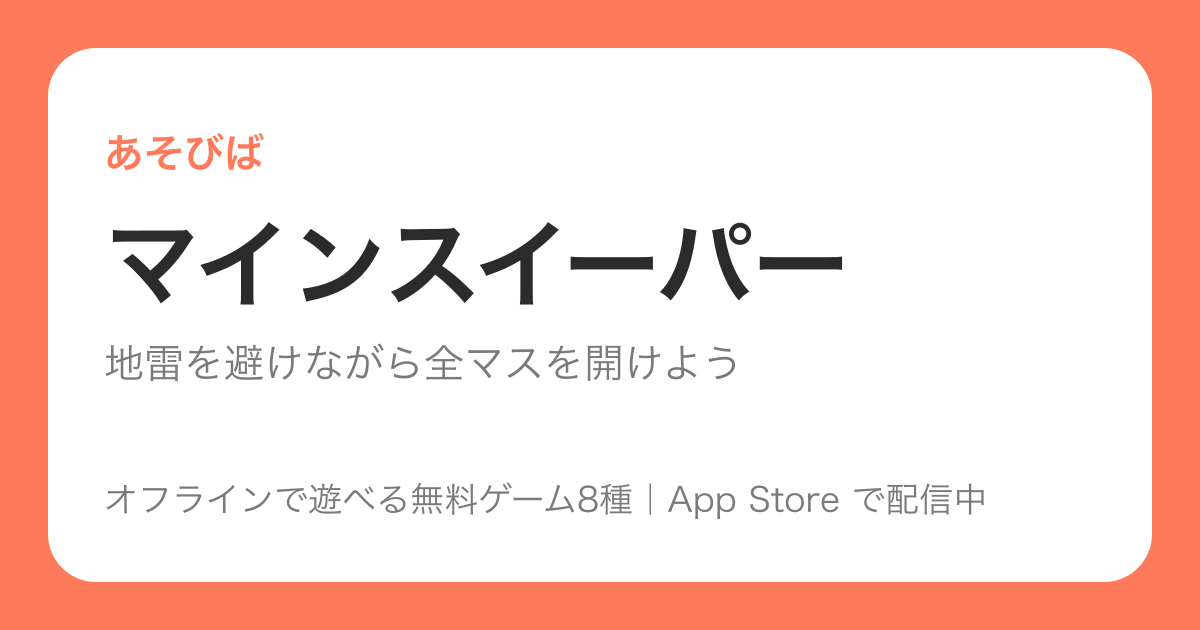
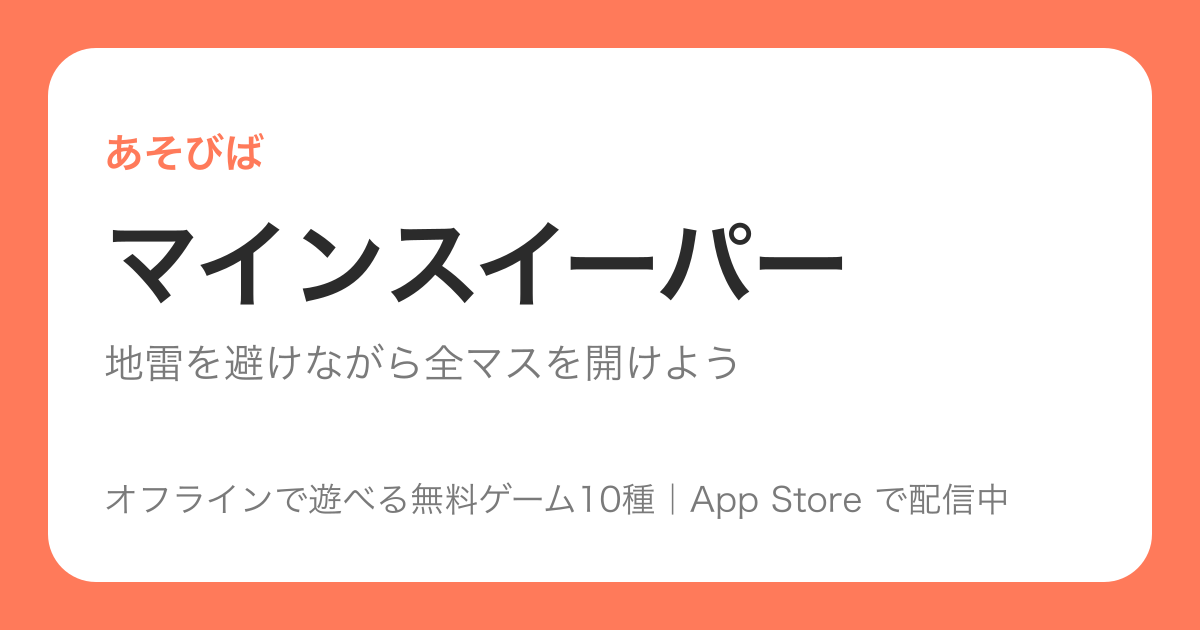
fix(web): LP のゲーム一覧を実装の10本に追従させ本数のベタ書きを撤廃（#156）
- games.ts に大富豪・麻雀ソリティアを追加（アプリの登録順に合わせて末尾へ）
- 将棋の説明から削除済みの KIF 書き出しの記述を除去（#102 で削除済み）
- トップページ・layout の title/description・OGP のフッターを games 配列から導出し、
  ベタ書きの「8」を撤廃（ゲームを足しても文言が自動で追従する）
- OGP 画像を全11枚（default + 10ゲーム）再生成

Changed region(s): [[0.4625, 0.754, 0.8325, 0.8143]]

diff --git a/web/app/lib/games.ts b/web/app/lib/games.ts
@@ -1,4 +1,5 @@
-/// LP に載せるゲーム一覧。アプリの収録ゲーム（`App/AppGameServices.swift` の登録順）と同じ8本・同じ順序で並べる。
+/// LP に載せるゲーム一覧。アプリの収録ゲーム（`App/AppGameServices.swift` の登録順）と
+/// 同じ顔ぶれ・同じ順序で並べる（本数はこの配列が唯一の出どころ。文言に本数をベタ書きしない）。
 /// 説明文は各ゲームの実装（`Packages/GameKit/Sources/`）で確認できる仕様だけを書くこと。
 export type Game = {
   /// /games/<slug> のパス。変更すると URL が変わるので sitemap ともども注意
@@ -45,7 +46,7 @@ export const games: Game[] = [
     tagline: "CPU と本格的な将棋で対決しよう",
     pageTitle: "将棋 - CPU と対局できる無料の将棋アプリ",
     description:
-      "本格的な思考ルーチンの CPU と一人で対局できる将棋。先手・後手を選べて、待った・投了・棋譜（KIF）の書き出しにも対応。通信不要・登録不要、iPhone アプリ「あそびば」に無料で収録しています。",
+      "本格的な思考ルーチンの CPU と一人で対局できる将棋。先手・後手を選べて、待った・投了にも対応。対局後は棋譜を並べ直して振り返れます。通信不要・登録不要、iPhone アプリ「あそびば」に無料で収録しています。",
     howTo: [
       "対局開始前に先手（▲）か後手（△）かを選びます",
       "自分の駒をタップすると移動できるマスが光るので、行き先をタップして指します",
@@ -54,7 +55,7 @@ export const games: Game[] = [
     ],
     features: [
       "CPU との一人対局。「強」を選ぶと定跡（オープニングブック）＋深読みで指してきます",
-      "対局後は棋譜を1手ずつ並べ直して振り返れます。KIF 形式で書き出しも可能",
+      "対局後は棋譜を1手ずつ並べ直して振り返れます",
       "対局の途中でアプリを閉じても局面は保存されます",
     ],
   },
@@ -176,6 +177,48 @@ export const games: Game[] = [
       "自分の手の合計と、ディーラーの見えているカードの合計（+?）が常に表示されるので分かりやすい",
       "チップはゲーム内だけのもので、購入も現金化もできません（アプリ内課金なし）",
       "チップが尽きたら、広告を見て回復するか1000枚でやり直せます",
+    ],
+  },
+  {
+    slug: "daifugo",
+    name: "大富豪",
+    emoji: "👑",
+    tagline: "CPU3人と対戦。革命・8切りあり！",
+    pageTitle: "大富豪（大貧民） - CPU3人と対戦できる無料のトランプゲーム",
+    description:
+      "CPU3人を相手に手札を出し切る大富豪（大貧民）。革命・8切り・反則上がりに対応し、決着後は階級に応じてカードを交換して次のゲームへ。通信不要・登録不要、iPhone アプリ「あそびば」に無料で収録。",
+    howTo: [
+      "CPU3人との4人対戦。手札を早く出し切った順に大富豪・富豪・貧民・大貧民の階級が決まります",
+      "場に出ているカードと同じ枚数で、より強い組だけを出せます（弱い順に 3・4…K・A・2、ジョーカーが最強）",
+      "出せない・出したくないときは「パス」。全員がパスすると場が流れ、最後に出した人から再開します",
+      "決着したら「次のゲーム」へ。階級に応じてカードを交換してから次戦が始まります",
+    ],
+    features: [
+      "革命（同じ数字を4枚以上まとめて出すとカードの強さが逆転）と8切り（8を含めて出すと場が流れ、続けて自分から出せる）に対応",
+      "最後の1手に2・8・ジョーカーを含めると反則上がりとなり、最下位に回ります",
+      "決着後のカード交換は大富豪⇔大貧民が2枚、富豪⇔貧民が1枚。ジョーカーは他の数字の代わりとしても使えます",
+      "開始前に「ゲームの流れ」とルール一覧を読めます。対局の途中でアプリを閉じても手札と場は保存されます",
+    ],
+  },
+  {
+    slug: "mahjong-solitaire",
+    name: "麻雀ソリティア",
+    emoji: "🀄",
+    tagline: "同じ牌を2枚ずつ取って全部消そう",
+    pageTitle: "麻雀ソリティア（上海） - 麻雀牌を2枚ずつ消す無料の1人用パズル",
+    description:
+      "積み上げた麻雀牌144枚から同じ絵柄を2枚ずつ取って全部消す、「上海」の名前で親しまれている亀型レイアウトの1人用パズル。平面の盤で線をつないで消す「二角取り」とは別ルールです。通信不要・登録不要、iPhone アプリ「あそびば」に無料で収録。",
+    howTo: [
+      "亀の甲羅の形に積まれた144枚の中から、同じ絵柄の牌を2枚タップして取り除きます",
+      "取れるのは、上に牌が載っていなくて左右のどちらかが空いている牌だけです",
+      "花牌どうし・季節牌どうしは絵柄が違っても組にできます",
+      "すべての牌を取り切ったらクリア。かかったタイムが記録されます",
+    ],
+    features: [
+      "配られるのは必ず取り切れる盤面。運が悪くて詰む配置は最初から出てきません",
+      "「ヒント」で取れる組を1つ光らせ、「並べ替え」で残りの牌をそこから必ず取り切れる配置に組み直せます（回数制限なし・広告視聴も不要）",
+      "手詰まりになっても、その場で並べ替えるか最初からやり直すかを選べます",
+      "クリアタイムの自己ベストが残り、途中でアプリを閉じても盤面は保存されます",
     ],
   },
 ];

diff --git a/web/app/page.tsx b/web/app/page.tsx
@@ -8,8 +8,12 @@ import {
   SITE_URL,
 } from "./lib/site";
 
+/// 収録本数とゲーム名の列挙は `games` から導出する（本数をベタ書きすると追加のたびに直し漏れる）。
+const gameCount = games.length;
+const gameNames = games.map((g) => g.name).join("・");
+
 const points = [
-  { icon: "✈", title: "オフラインで遊べる", desc: "通信不要。電波の無い場所でも8本すべて動きます" },
+  { icon: "✈", title: "オフラインで遊べる", desc: `通信不要。電波の無い場所でも${gameCount}本すべて動きます` },
   { icon: "🔓", title: "登録もログインも不要", desc: "入れてすぐ遊べます。アカウント作成はありません" },
   { icon: "🪶", title: `約${APP_SIZE_MB}と軽い`, desc: "ダウンロードもインストールもすぐ終わります" },
   {
@@ -24,7 +28,7 @@ const jsonLd = {
   "@context": "https://schema.org",
   "@type": "SoftwareApplication",
   name: SITE_NAME,
-  description: `将棋・2048・五目並べ・マインスイーパー・オセロ・ポーカー・神経衰弱・ブラックジャックの8つを収録した iPhone 用ゲームコレクション。オフラインで遊べて、会員登録も不要。`,
+  description: `${gameNames}の${gameCount}つを収録した iPhone 用ゲームコレクション。オフラインで遊べて、会員登録も不要。`,
   applicationCategory: "GameApplication",
   operatingSystem: `iOS ${MIN_IOS_VERSION}+`,
   url: SITE_URL,
@@ -49,10 +53,10 @@ export default function Home() {
         <div className="text-6xl mb-4">🎮</div>
         <h1 className="text-4xl font-bold text-gray-900 dark:text-white mb-3">あそびば</h1>
         <p className="text-gray-500 dark:text-gray-400 text-lg">
-          定番ゲーム8種の詰め合わせ
+          定番ゲーム{gameCount}種の詰め合わせ
         </p>
         <p className="text-gray-500 dark:text-gray-400 mt-3 leading-relaxed">
-          将棋・2048・五目並べ・マインスイーパー・オセロ・ポーカー・神経衰弱・ブラックジャックを1本に。
+          {gameNames}を1本に。
           <strong className="font-semibold text-gray-700 dark:text-gray-200">
             すべてオフラインで遊べて、通信も会員登録も不要
           </strong>
@@ -81,7 +85,7 @@ export default function Home() {
         ))}
       </div>
 
-      <h2 className="text-2xl font-bold text-gray-900 dark:text-white mb-4">収録ゲーム（8本）</h2>
+      <h2 className="text-2xl font-bold text-gray-900 dark:text-white mb-4">収録ゲーム（{gameCount}本）</h2>
       <div className="grid grid-cols-1 gap-3 mb-12">
         {games.map((g) => (
           <Link

diff --git a/web/app/layout.tsx b/web/app/layout.tsx
@@ -1,15 +1,19 @@
 import type { Metadata } from "next";
 import Link from "next/link";
 import "./globals.css";
+import { games } from "./lib/games";
 import { APP_SIZE_MB, APP_STORE_URL, SITE_NAME, SITE_URL } from "./lib/site";
 
-const defaultDescription = `将棋・2048・五目並べ・マインスイーパー・オセロ・ポーカー・神経衰弱・ブラックジャックの8つを1本にまとめた iPhone 用ゲームコレクション。すべてオフラインで遊べて、通信も会員登録も不要。無料・約${APP_SIZE_MB}。`;
+/// 収録本数とゲーム名は `games` から導出する（`app/page.tsx` と同じ理由。本数をベタ書きしない）。
+const gameCount = games.length;
+const defaultTitle = `${SITE_NAME} - オフラインで遊べる無料ゲーム${gameCount}種の詰め合わせ`;
+const defaultDescription = `${games.map((g) => g.name).join("・")}の${gameCount}つを1本にまとめた iPhone 用ゲームコレクション。すべてオフラインで遊べて、通信も会員登録も不要。無料・約${APP_SIZE_MB}。`;
 
 export const metadata: Metadata = {
   // 相対パスの canonical / OGP 画像をここを起点に絶対 URL 化する
   metadataBase: new URL(SITE_URL),
   title: {
-    default: `${SITE_NAME} - オフラインで遊べる無料ゲーム8種の詰め合わせ`,
+    default: defaultTitle,
     template: `%s | ${SITE_NAME}`,
   },
   description: defaultDescription,
@@ -20,13 +24,13 @@ export const metadata: Metadata = {
     siteName: SITE_NAME,
     locale: "ja_JP",
     url: "/",
-    title: `${SITE_NAME} - オフラインで遊べる無料ゲーム8種の詰め合わせ`,
+    title: defaultTitle,
     description: defaultDescription,
     images: [{ url: "/og/default.png", width: 1200, height: 630, alt: SITE_NAME }],
   },
   twitter: {
     card: "summary_large_image",
-    title: `${SITE_NAME} - オフラインで遊べる無料ゲーム8種の詰め合わせ`,
+    title: defaultTitle,
     description: defaultDescription,
     images: ["/og/default.png"],
   },

diff --git a/docs/ui-review/156/README.md b/docs/ui-review/156/README.md
@@ -1,0 +1,54 @@
+# #156 LP のゲーム一覧を実装（10本）に追従 — 画面確認
+
+`web` を `npm run build` → `npm start`（ローカル・ポート 3111）で立ち上げ、
+headless Chrome（`--headless=new --window-size=900,<高さ> --screenshot`）で撮影したもの。
+
+## top.jpg
+
+トップページ。**本数・ゲーム名の列挙はすべて `web/app/lib/games.ts` の `games` から導出**していて、
+ベタ書きの「8」は残っていない。
+
+- 見出し「定番ゲーム**10**種の詰め合わせ」
+- 導入文のゲーム名がアプリの登録順（`App/AppGameServices.swift`）どおり10本
+- 「通信不要。電波の無い場所でも**10**本すべて動きます」
+- 「収録ゲーム（**10**本）」＋カード10枚（末尾に大富豪・麻雀ソリティア）
+
+## daifugo.jpg
+
+新規追加した `/games/daifugo`。遊び方・特徴は `Packages/GameKit/Sources/GameDaifugo` の
+実装（`DaifugoRules` の革命・8切り・反則上がり・カード交換、`DaifugoView` のルール表示、
+`DaifugoModel` の中断保存）で確認できる範囲だけを書いている。
+
+## mahjong-solitaire.jpg
+
+新規追加した `/games/mahjong-solitaire`。同じく `GameMahjongSolitaire` の実装
+（144枚の亀型レイアウト、`isFree` の「上に載っていない かつ 左右どちらかが空いている」、
+花牌・季節牌どうしが組になる `MahjongFace.matches`、ヒント／並べ替えが無制限・広告不要、
+必ず取り切れる盤面のみ配る `solution`、クリアタイムの自己ベスト）に基づく。
+
+「上海」は本実装（亀型に積んだ牌を2枚ずつ消す）の一般的な別名なのでそのまま採用したが、
+**「二角取り」は平面の盤で線をつないで消す別ゲーム**なので、検索語としては入れつつ
+「とは別ルールです」と明記して誤誘導にならないようにしている。
+
+## og-daifugo.jpg / og-mahjong-solitaire.jpg
+
+`web/scripts/generate-og-images.mjs` で生成した OGP 画像（実体は 1200×630 PNG。
+ここに置いているのは確認用に JPEG 化したもの）。フッターの「無料ゲーム**10**種」も
+`games.length` から導出するよう直したので、全11枚（default + 10ゲーム）を再生成している。
+
+## 撮影上の注意
+
+viewport 幅 430px（モバイル相当）でも撮ってみたが、headless Chrome では**本 PR で触っていない
+`/privacy` でも同じように右端が切れる**ため、コンテンツ幅の判断材料にならないと考えて採用しなかった。
+レイアウト自体は既存のまま（`max-w-2xl mx-auto px-6`）で、本 PR では文言の生成方法しか変えていない。
+
+## 再現方法
+
+```sh
+cd web
+export PATH="$HOME/.nodenv/shims:$PATH"   # システム既定の node v14 では npm ci が失敗する
+npm ci && npm run build && npm start -- -p 3111
+"/Applications/Google Chrome.app/Contents/MacOS/Google Chrome" \
+  --headless=new --disable-gpu --hide-scrollbars --window-size=900,1960 \
+  --screenshot=top.png "http://localhost:3111/"
+```
